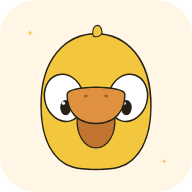
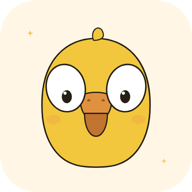
呆呆鸟重绘：眼神/嘴巴分层修正 + 腮红，图标全套重渲染
- 眼睛上移、瞳孔收回眼白内，不再被嘴巴遮挡；倾斜角 15°→10°
- 图层顺序改为 脑袋→红晕→嘴巴→眼睛，嘴巴从两眼间垂下
- 眨眼眼皮改为眼白同形椭圆；sparkle/blink 的定位 transform 移到外层 g，避免被 CSS 动画覆盖
- 品牌区改显示「呆呆鸟」，域名降为辅助文字；kicker 改为「呆呆鸟保护协会」

Changed region(s): [[0.1875, 0.125, 0.8125, 0.9062], [0.8438, 0.8125, 0.875, 0.8438], [0.1562, 0.1562, 0.1875, 0.1875]]

diff --git a/index.html b/index.html
@@ -177,7 +177,8 @@
     <header class="bar">
       <div class="brand">
         <img src="assets/icon.svg" alt="呆呆鸟头像" />
-        <span>dodobird.eu.org</span>
+        <span>呆呆鸟</span>
+        <small>dodobird.eu.org</small>
       </div>
       <nav>
         <a href="#facts">呆鸟趣闻</a>
@@ -190,61 +191,73 @@
         <!-- 点击小鸟有惊喜 -->
         <svg class="bird" id="birdSvg" viewBox="0 0 512 512" role="img" aria-label="一只呆呆鸟，点击有惊喜">
           <g id="birdBob">
-            <ellipse cx="248" cy="500" rx="132" ry="11" fill="#3B3125" opacity="0.08"/>
+            <ellipse cx="256" cy="504" rx="105" ry="7" fill="#3B3125" opacity="0.08"/>
             <g id="birdInner">
               <!-- 小脚 -->
               <g fill="#E8A64E" stroke="#262016" stroke-width="6" stroke-linejoin="round" paint-order="stroke fill">
-                <ellipse cx="218" cy="503" rx="25" ry="9"/>
-                <ellipse cx="294" cy="503" rx="25" ry="9"/>
+                <ellipse cx="220" cy="498" rx="23" ry="8"/>
+                <ellipse cx="292" cy="498" rx="23" ry="8"/>
               </g>
               <!-- 小身子 -->
-              <ellipse cx="256" cy="454" rx="105" ry="52" fill="#F2C73D" stroke="#262016" stroke-width="8" stroke-linejoin="round" paint-order="stroke fill"/>
+              <ellipse cx="256" cy="448" rx="95" ry="48" fill="#F2C73D" stroke="#262016" stroke-width="8" stroke-linejoin="round" paint-order="stroke fill"/>
               <!-- 小翅膀 -->
               <g fill="#F2C73D" stroke="#262016" stroke-width="7" stroke-linejoin="round" paint-order="stroke fill">
-                <ellipse cx="146" cy="452" rx="26" ry="34" transform="rotate(16 146 452)"/>
-                <ellipse cx="366" cy="452" rx="26" ry="34" transform="rotate(-16 366 452)"/>
+                <ellipse cx="150" cy="446" rx="24" ry="32" transform="rotate(16 150 446)"/>
+                <ellipse cx="362" cy="446" rx="24" ry="32" transform="rotate(-16 362 446)"/>
               </g>
-              <!-- 大脑袋（上宽下窄的梨形） -->
-              <path d="M 190 414 C 140 398 106 340 106 250 C 104 116 176 50 256 50 C 336 50 408 116 406 250 C 406 340 372 398 322 414 C 294 424 218 424 190 414 Z"
+              <!-- 大脑袋（梨形） -->
+              <path d="M 196 408 C 146 392 108 336 108 248 C 106 118 178 62 256 62 C 334 62 406 118 404 248 C 404 336 366 392 316 408 C 288 418 224 418 196 408 Z"
                     fill="#F2C73D" stroke="#262016" stroke-width="8" stroke-linejoin="round" paint-order="stroke fill"/>
               <!-- 头顶呆毛 -->
-              <path d="M 250 54 C 242 26 268 14 271 42 C 272 51 262 56 250 54 Z"
+              <path d="M 250 64 C 240 32 272 20 275 50 C 276 59 264 64 250 64 Z"
                     fill="#F2C73D" stroke="#262016" stroke-width="6" stroke-linejoin="round" paint-order="stroke fill"/>
+              <!-- 脸颊红晕 -->
+              <ellipse cx="138" cy="285" rx="20" ry="13" fill="#F2A04E" opacity="0.35"/>
+              <ellipse cx="374" cy="285" rx="20" ry="13" fill="#F2A04E" opacity="0.35"/>
+              <!-- 垂下来的大嘴（塞在两眼之间） -->
+              <g stroke="#262016" stroke-width="7" stroke-linejoin="round" paint-order="stroke fill">
+                <path d="M 214 228 C 214 206 298 206 298 228 C 298 264 280 288 256 288 C 232 288 214 264 214 228 Z"
+                      fill="#E09140"/>
+                <path d="M 226 270 C 226 306 240 330 256 330 C 272 330 286 306 286 270 Z"
+                      fill="#C07430"/>
+              </g>
+              <!-- 鼻孔 -->
+              <ellipse cx="236" cy="232" rx="5" ry="3.5" fill="#8A5522" opacity="0.8" transform="rotate(-15 236 232)"/>
+              <ellipse cx="276" cy="232" rx="5" ry="3.5" fill="#8A5522" opacity="0.8" transform="rotate(15 276 232)"/>
               <!-- 大白眼珠 -->
               <g fill="#FFFFFF" stroke="#262016" stroke-width="8" stroke-linejoin="round" paint-order="stroke fill">
-                <ellipse cx="168" cy="225" rx="52" ry="64" transform="rotate(-15 168 225)"/>
-                <ellipse cx="344" cy="225" rx="52" ry="64" transform="rotate(15 344 225)"/>
+                <ellipse cx="172" cy="198" rx="52" ry="64" transform="rotate(-10 172 198)"/>
+                <ellipse cx="340" cy="198" rx="52" ry="64" transform="rotate(10 340 198)"/>
               </g>
-              <!-- 豆豆眼珠：对称地向下放空 -->
-              <ellipse cx="172" cy="252" rx="15" ry="21" fill="#262016"/>
-              <ellipse cx="340" cy="252" rx="15" ry="21" fill="#262016"/>
-              <circle cx="166" cy="240" r="4.5" fill="#FFFFFF"/>
-              <circle cx="334" cy="240" r="4.5" fill="#FFFFFF"/>
-              <!-- 眨眼用的眼皮 -->
-              <rect class="blink" x="108" y="155" width="120" height="142" rx="18" fill="#F2C73D"/>
-              <rect class="blink" x="284" y="155" width="120" height="142" rx="18" fill="#F2C73D"/>
-              <!-- 垂下来的大嘴 -->
-              <path d="M 206 282 C 202 322 224 362 256 362 C 288 362 310 322 306 282 Z"
-                    fill="#C07430" stroke="#262016" stroke-width="7" stroke-linejoin="round" paint-order="stroke fill"/>
-              <path d="M 178 216 C 178 192 334 192 334 216 C 334 262 306 294 256 294 C 206 294 178 262 178 216 Z"
-                    fill="#E09140" stroke="#262016" stroke-width="8" stroke-linejoin="round" paint-order="stroke fill"/>
-              <!-- 鼻孔 -->
-              <ellipse cx="228" cy="220" rx="5.5" ry="4" fill="#8A5522" opacity="0.8" transform="rotate(-20 228 220)"/>
-              <ellipse cx="284" cy="220" rx="5.5" ry="4" fill="#8A5522" opacity="0.8" transform="rotate(20 284 220)"/>
+              <!-- 豆豆眼珠：对称向下放空 -->
+              <ellipse cx="175" cy="222" rx="14" ry="18" fill="#262016"/>
+              <ellipse cx="337" cy="222" rx="14" ry="18" fill="#262016"/>
+              <!-- 眼神高光 -->
+              <circle cx="170" cy="212" r="4.5" fill="#FFFFFF"/>
+              <circle cx="332" cy="212" r="4.5" fill="#FFFFFF"/>
+              <!-- 眨眼眼皮（g 承载旋转，CSS 动画在内层 ellipse 上） -->
+              <g transform="rotate(-10 172 198)">
+                <ellipse class="blink" cx="172" cy="198" rx="52" ry="64"
+                         fill="#F2C73D" stroke="#262016" stroke-width="8" stroke-linejoin="round" paint-order="stroke fill"/>
+              </g>
+              <g transform="rotate(10 340 198)">
+                <ellipse class="blink" cx="340" cy="198" rx="52" ry="64"
+                         fill="#F2C73D" stroke="#262016" stroke-width="8" stroke-linejoin="round" paint-order="stroke fill"/>
+              </g>
             </g>
           </g>
-          <!-- 星星点缀 -->
+          <!-- 星星点缀（g 承载定位，CSS 动画在内层 path 上，避免 transform 冲突） -->
           <g fill="#F2C14E">
-            <path class="sparkle s1" transform="translate(66,108)" d="M0,-9 L2.4,-2.4 9,0 2.4,2.4 0,9 -2.4,2.4 -9,0 -2.4,-2.4 Z"/>
-            <path class="sparkle s2" transform="translate(458,84) scale(0.8)" d="M0,-9 L2.4,-2.4 9,0 2.4,2.4 0,9 -2.4,2.4 -9,0 -2.4,-2.4 Z"/>
-            <path class="sparkle s3" transform="translate(48,320) scale(0.7)" d="M0,-9 L2.4,-2.4 9,0 2.4,2.4 0,9 -2.4,2.4 -9,0 -2.4,-2.4 Z"/>
+            <g transform="translate(66,108)"><path class="sparkle s1" d="M0,-9 L2.4,-2.4 9,0 2.4,2.4 0,9 -2.4,2.4 -9,0 -2.4,-2.4 Z"/></g>
+            <g transform="translate(458,84) scale(0.8)"><path class="sparkle s2" d="M0,-9 L2.4,-2.4 9,0 2.4,2.4 0,9 -2.4,2.4 -9,0 -2.4,-2.4 Z"/></g>
+            <g transform="translate(48,320) scale(0.7)"><path class="sparkle s3" d="M0,-9 L2.4,-2.4 9,0 2.4,2.4 0,9 -2.4,2.4 -9,0 -2.4,-2.4 Z"/></g>
           </g>
         </svg>
         <div class="bubble" id="bubble" role="status" aria-live="polite"></div>
       </div>
 
       <div>
-        <span class="kicker">🦤 dodobird.eu.org</span>
+        <span class="kicker">🦤 呆呆鸟保护协会</span>
         <h1>不会飞，<br /><em>但一直在线</em>。</h1>
         <p class="sub">这里是呆呆鸟的家。看起来呆，其实只是毫无防备的真诚——毕竟在它的岛上，从来不需要设防。</p>
         <div class="cta">
